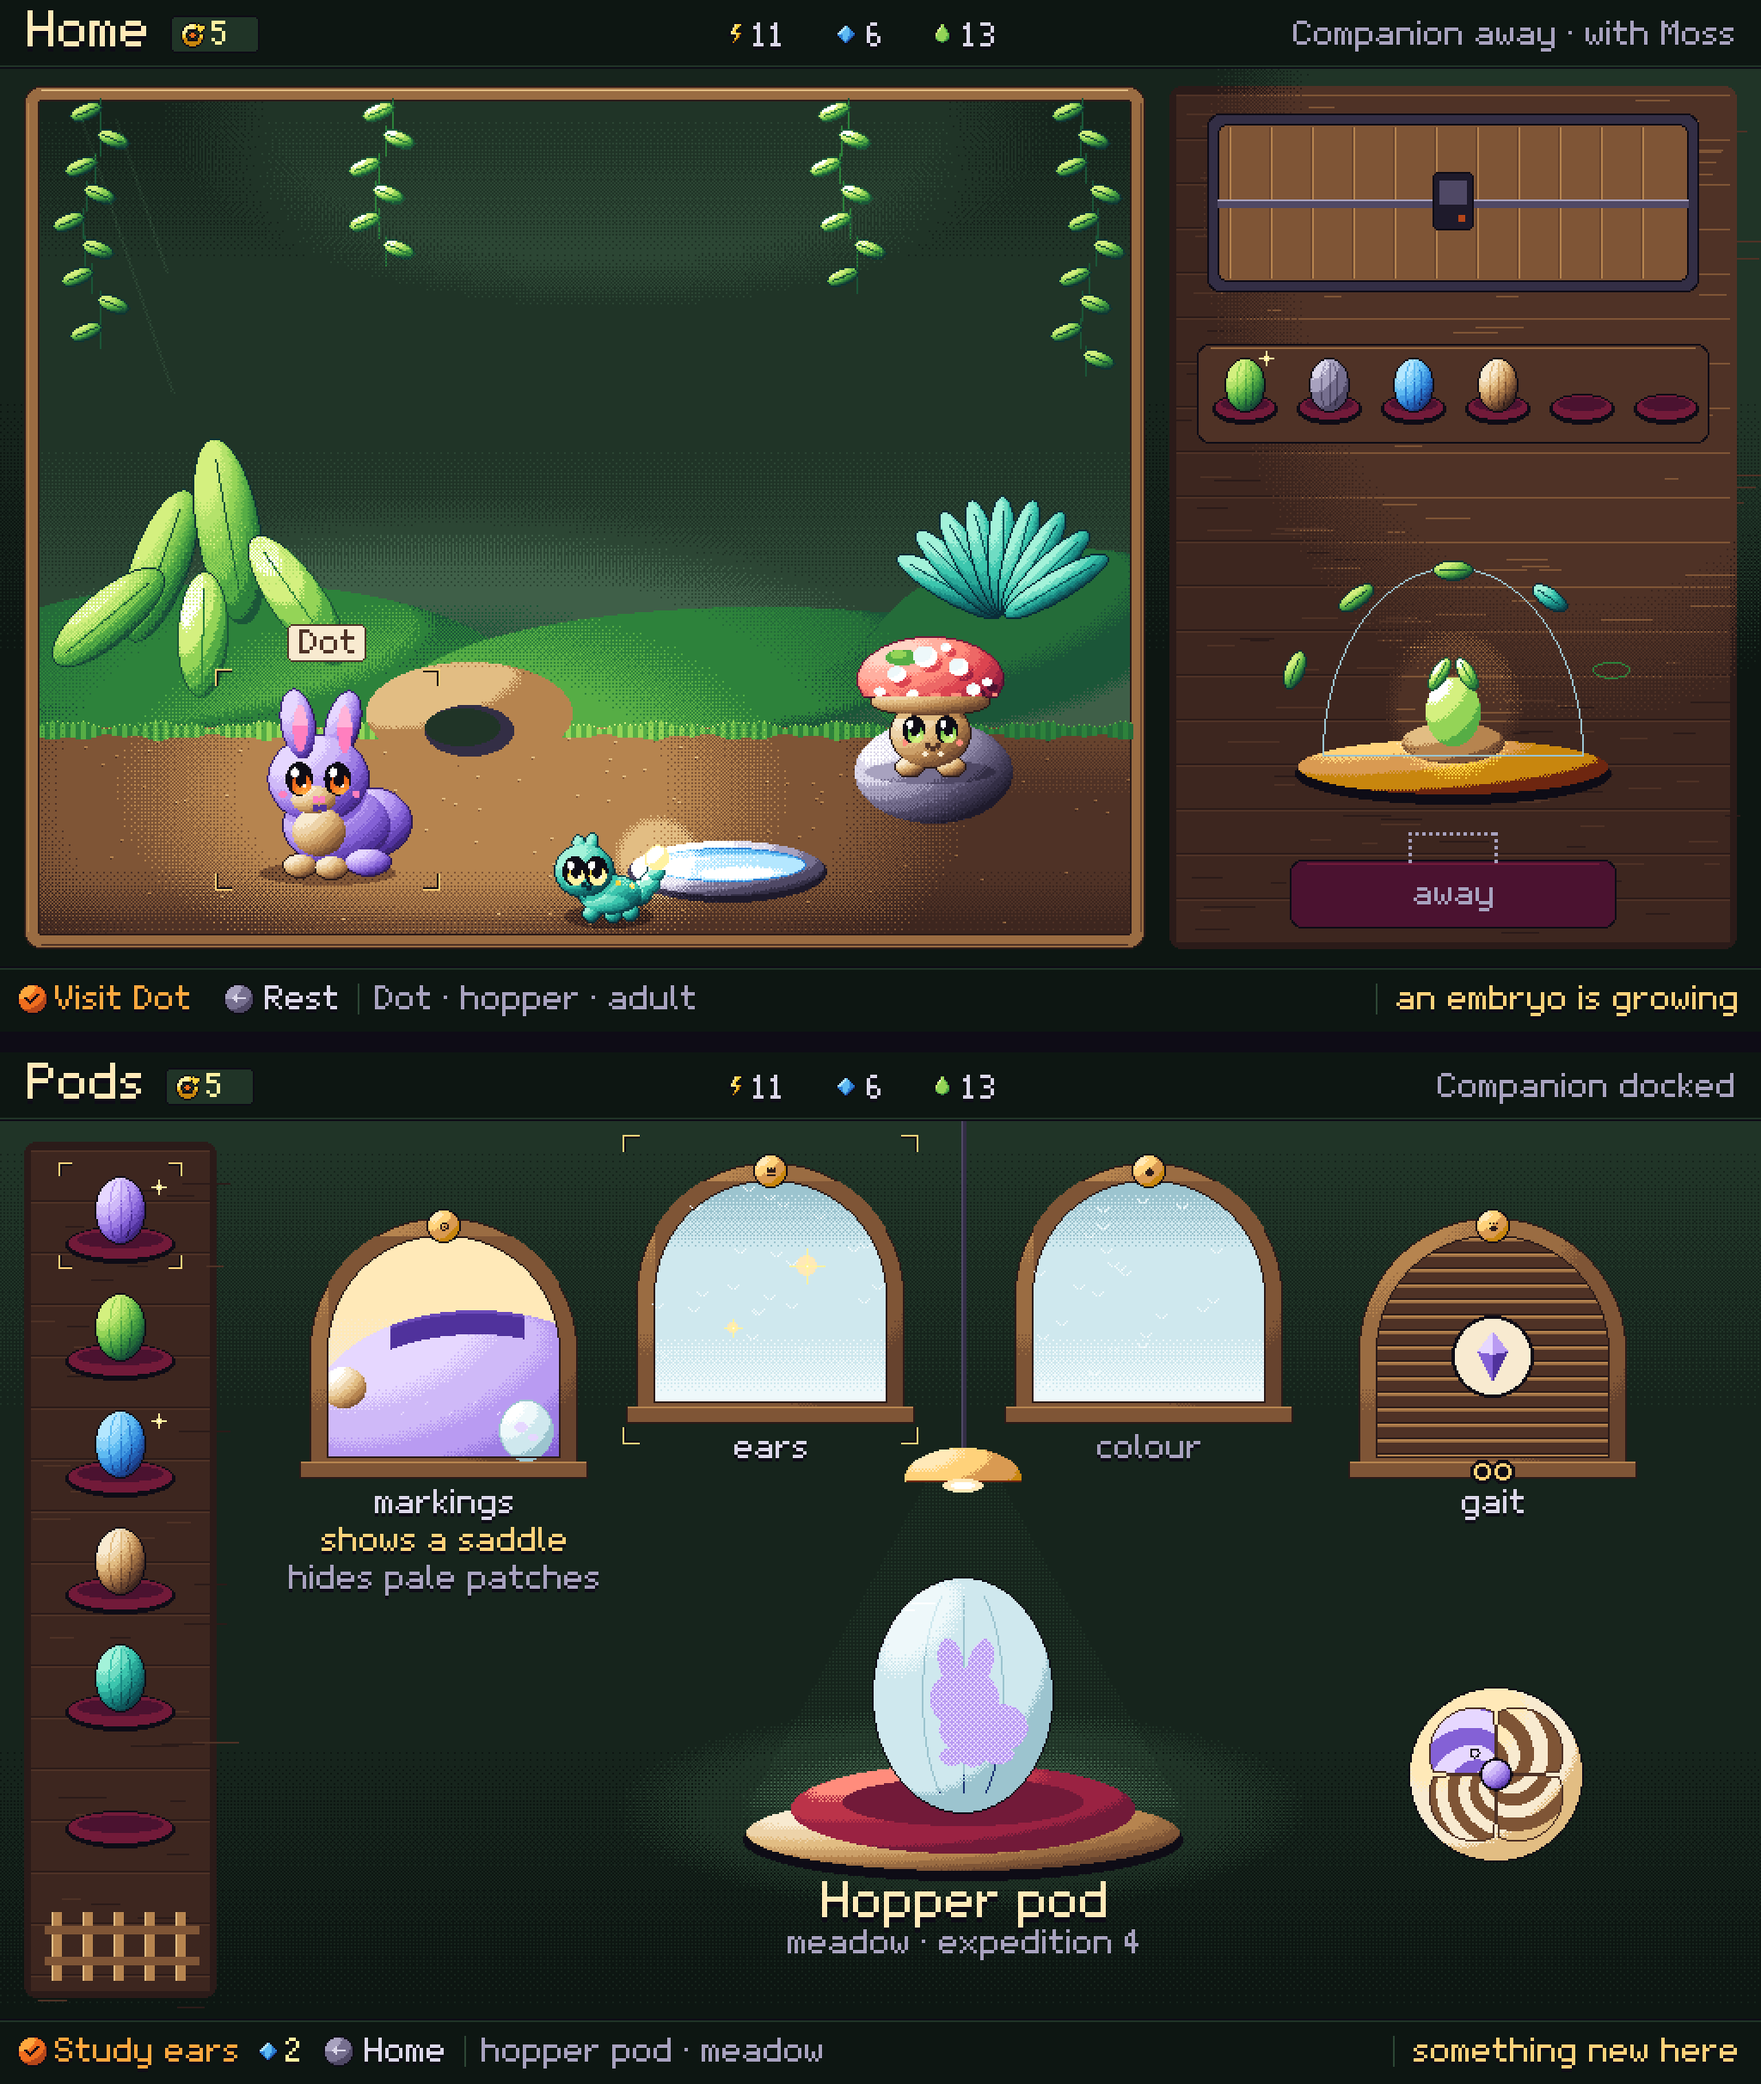
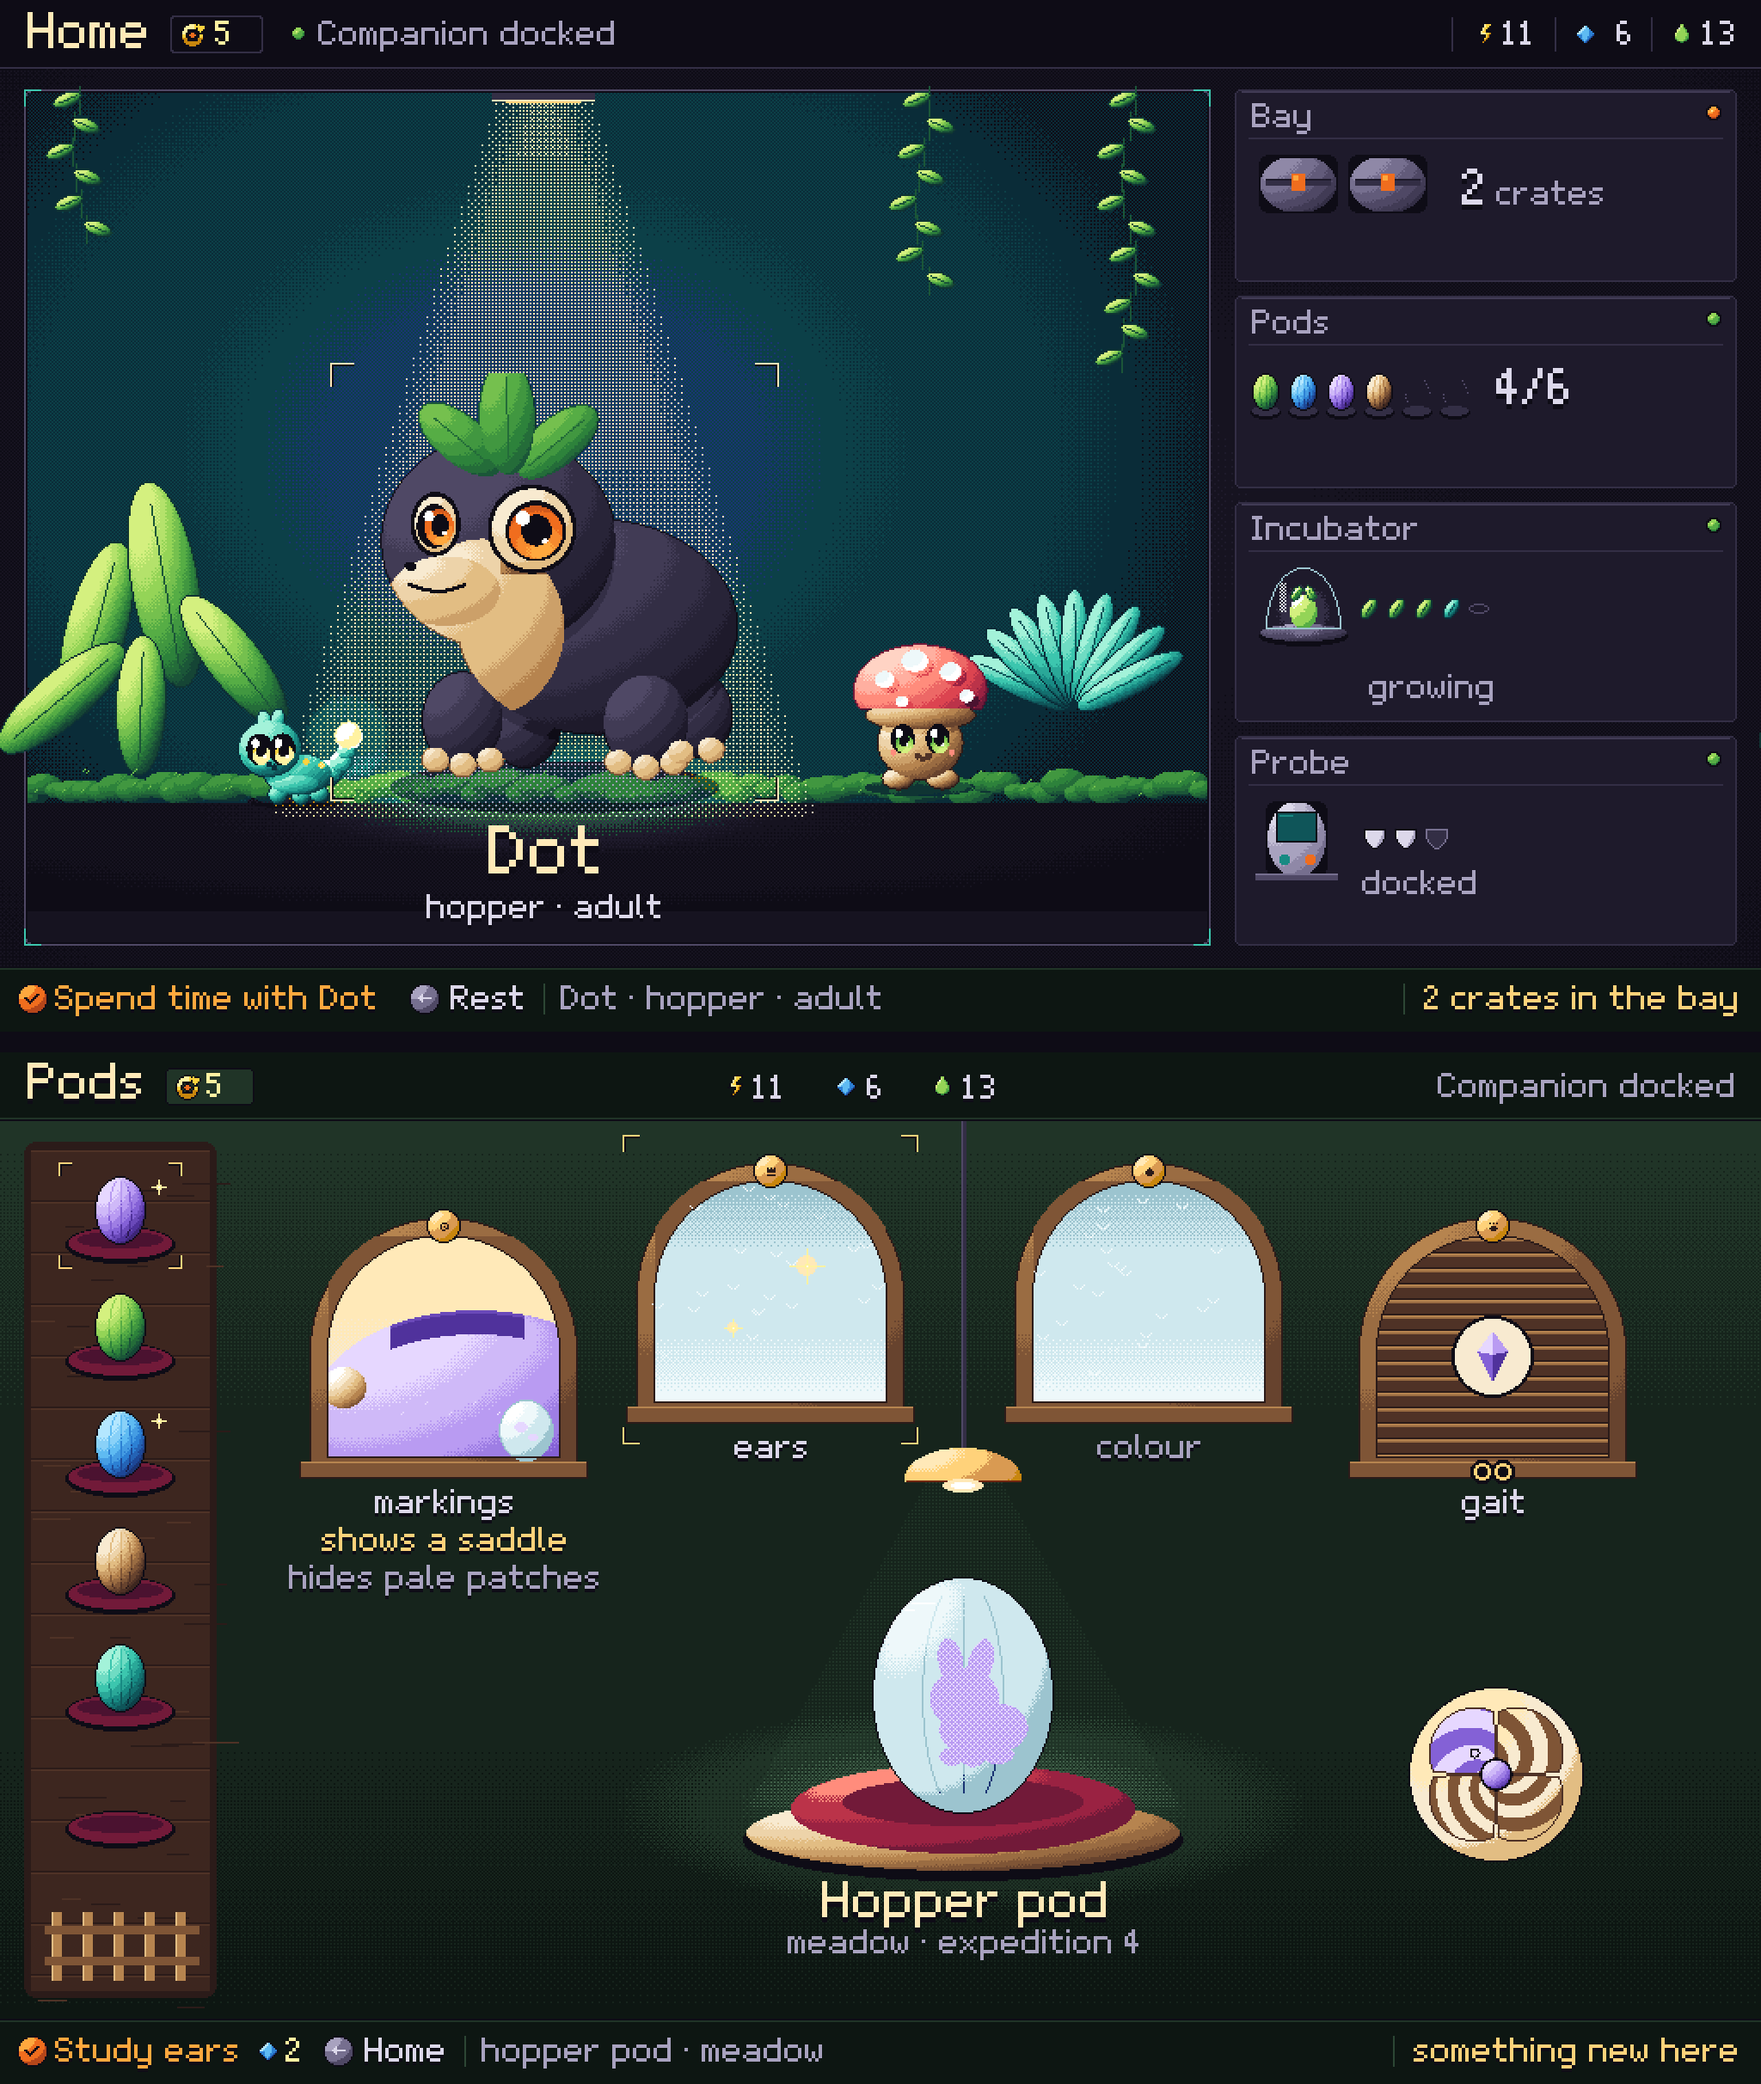
UI kit: Station Home redrawn as a research instrument
A cool instrument chrome (thin rules, corner ticks, status lamps,
counters) around one living specimen window: teal-blue ground with a
soft vignette, plants and moss, a lamp cone on the focused resident
with a lamp-cream bracket and a 4x name label. Dot is drawn at the
approved Miniature Lives scale (about 230 px) with a young glowtail and
a puffcap beside it. Four equipment modules with a readout each: Bay,
Pods, Incubator, Probe. No wood, felt or cottage props. A side-by-side
with the research-hands concept is embedded under the Home bullet.

diff --git a/design/proposals/ui-kit.md b/design/proposals/ui-kit.md
@@ -206,13 +206,28 @@ genome-to-sprite pipeline: parts and markings are parameters, and art never chan
   *Left: the approved concept companion-map-hands (generated), its screen scaled to 450×600.
   Right: the kit's reach view at 1×, drawn in the 48 colours.*
 
-- **Station Home:** a lit glass vivarium with residents at Station size, focus on one
-  resident; the bench as objects: bay door with the Companion mark, six felt cups with a glint,
-  incubator dome with its leaf timer, the empty Probe cradle.
+- **Station Home:** a field research instrument with one living specimen window. The chrome
+  is cool and dark, with thin rules, corner ticks, status lamps and readouts. Inside the window
+  is the only warm, lively part: a deep teal-blue ground with a soft dithered vignette, plants
+  and hanging stems at the sides, and moss along the base. The residents are drawn in the
+  Miniature Lives treatment at Station size: the focused hopper is about 230 px tall, with
+  rounded volume, dithered bands, top-left light, big catch-lit eyes and an outline in each
+  part's darkest shade. A young glowtail and a puffcap are beside it. An instrument light casts
+  a soft cone on the focused hopper, framed by a lamp-cream bracket. Under it is a label: the
+  name at 4× and "hopper · adult" at 2×. The equipment column has four modules, each with a
+  lamp and a state readout: the bay (two sealed crates, "2 crates"), the pod rack ("4/6"), the
+  incubator (a dome and its leaf timer, "growing") and the Probe dock (Shield plates,
+  "docked"). The header carries the turn, a Companion lamp and the counters at the top right;
+  the bottom line is the kit's.
 
   ![Station Home, 1024×600 at 1×](ui-kit/station-home.png)
 
   *Station Home at 1×.*
+
+  ![The approved Station concept beside the kit's Station Home](ui-kit/station-home-vs-concept.png)
+
+  *Left: the approved concept station-research-hands (generated), its screen cropped and scaled
+  to 1024×600. Right: the kit's Station Home at 1×, drawn in the 96 Station colours.*
 
 - **Station trait windows (Pods):** the tray column and garden gate; four windows (shows and
   hides with a misty seed, glint, frosted, shutter with what opens it); the pod under its
